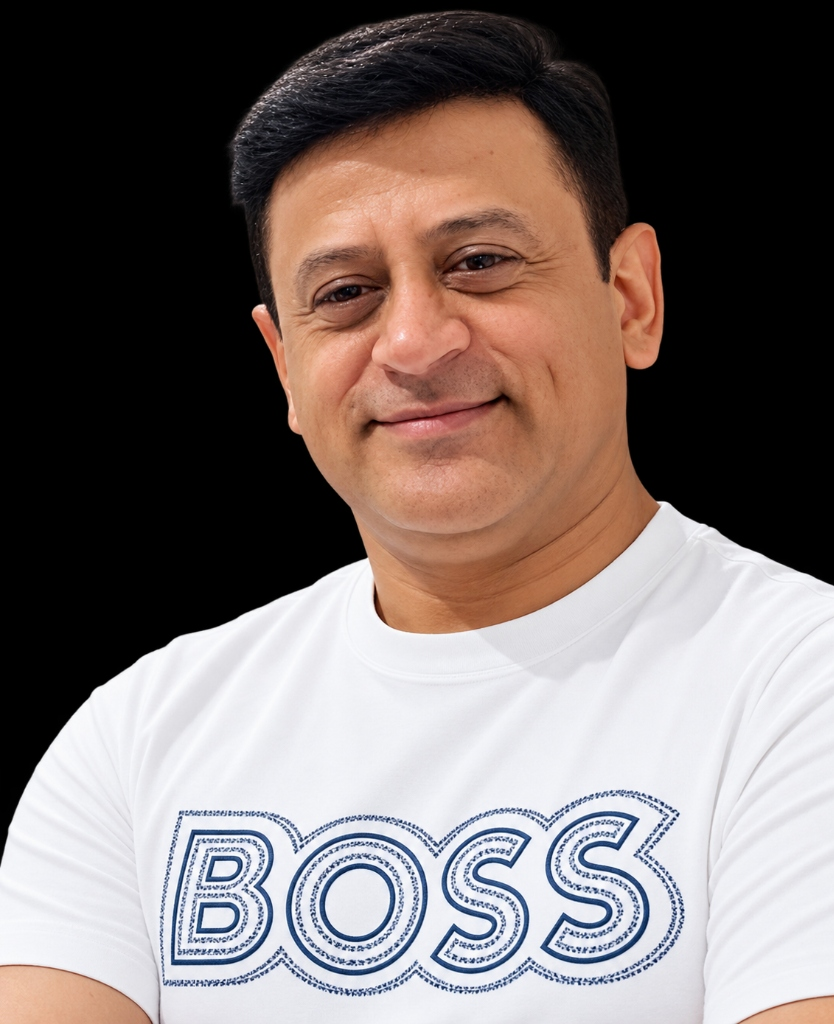
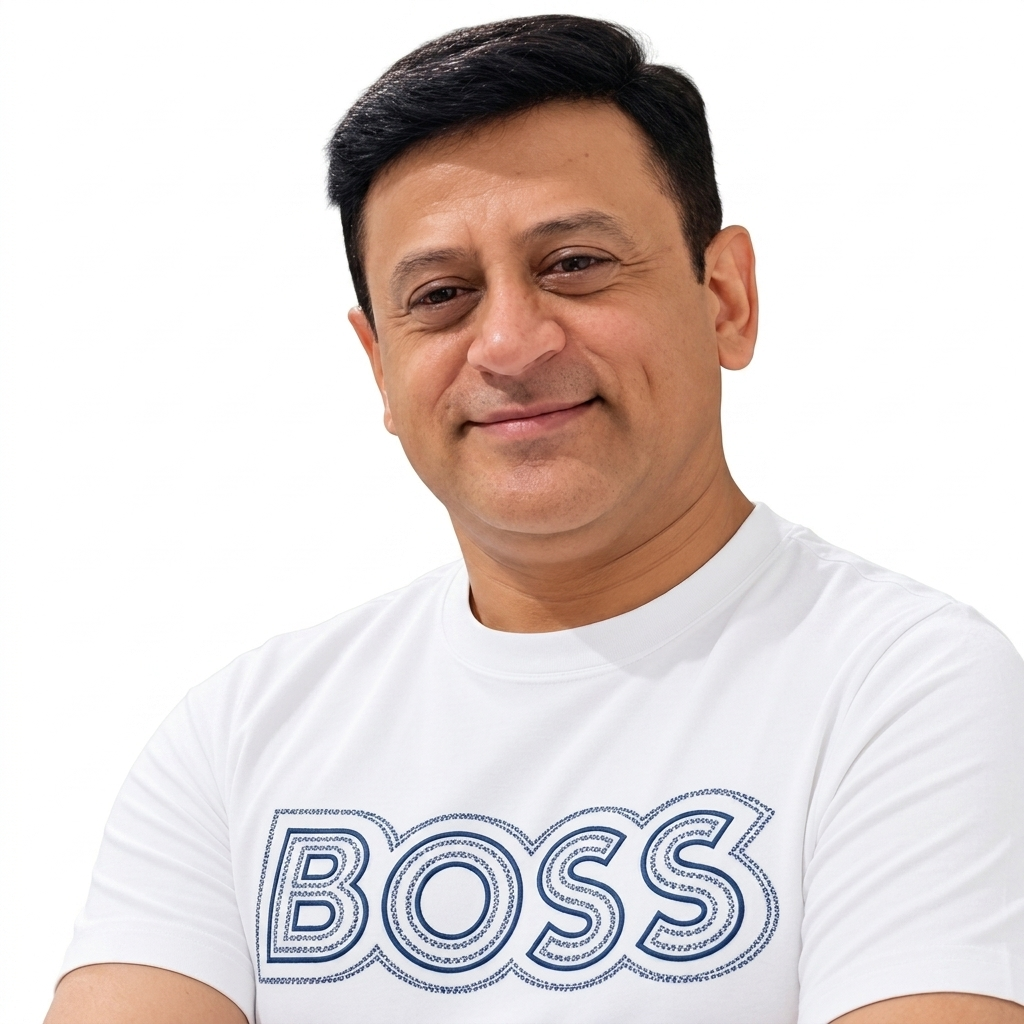
update-jatin-photo-to-pure-white-bg-and-light-card-container

diff --git a/src/app/team/page.tsx b/src/app/team/page.tsx
@@ -153,22 +153,22 @@ export default function TeamPage() {
                     className="bg-[#F8FAFC] rounded-3xl border border-slate-200 luxury-card-shadow hover:border-[#C5A059] transition-all duration-300 overflow-hidden flex flex-col justify-between group"
                   >
                     <div>
-                      {/* Executive Photo Container Placeholder */}
-                      <div className="relative w-full h-72 sm:h-80 bg-gradient-to-b from-[#0B1B2D] via-[#162B44] to-[#0B1B2D] flex items-center justify-center p-6 border-b border-[#C5A059]/30 overflow-hidden">
-                        {/* Background Ambient Glow */}
-                        <div className="absolute inset-0 bg-[radial-gradient(circle_at_center,rgba(197,160,89,0.15),transparent_70%)]" />
+                      {/* Executive Photo Container */}
+                      <div className="relative w-full h-72 sm:h-80 bg-gradient-to-b from-slate-50 via-white to-slate-100 flex items-center justify-center p-6 border-b border-slate-200 overflow-hidden">
+                        {/* Background Ambient Gold Glow */}
+                        <div className="absolute inset-0 bg-[radial-gradient(circle_at_center,rgba(197,160,89,0.12),transparent_70%)]" />
                         
                         {/* Executive Portrait Frame / Photo Container */}
-                        <div className="relative w-44 h-44 sm:w-48 sm:h-48 rounded-full p-1.5 bg-gradient-to-tr from-[#C5A059] via-[#F9E29C] to-[#C5A059] shadow-2xl group-hover:scale-105 transition-transform duration-300">
-                          <div className="w-full h-full rounded-full bg-[#0B1B2D] border-2 border-[#0B1B2D] shadow-inner overflow-hidden relative flex flex-col items-center justify-center">
+                        <div className="relative w-44 h-44 sm:w-48 sm:h-48 rounded-full p-1.5 bg-gradient-to-tr from-[#C5A059] via-[#F9E29C] to-[#C5A059] shadow-xl group-hover:scale-105 transition-transform duration-300">
+                          <div className="w-full h-full rounded-full bg-white border-2 border-white shadow-inner overflow-hidden relative flex flex-col items-center justify-center">
                             {member.image ? (
                               <img
                                 src={member.image}
                                 alt={member.name}
-                                className="w-full h-full object-cover object-top rounded-full"
+                                className="w-full h-full object-cover object-top rounded-full bg-white"
                               />
                             ) : (
-                              <span className="text-3xl sm:text-4xl font-serif font-bold text-white tracking-widest gold-gradient-text">
+                              <span className="text-3xl sm:text-4xl font-serif font-bold text-[#0B1B2D] tracking-widest gold-gradient-text">
                                 {member.initials}
                               </span>
                             )}
@@ -177,7 +177,7 @@ export default function TeamPage() {
 
                         {/* Executive Badge */}
                         <div className="absolute bottom-4 left-6 right-6 text-center">
-                          <span className="text-[10px] font-mono font-bold text-[#C5A059] uppercase tracking-widest bg-[#0B1B2D]/90 border border-[#C5A059]/40 px-3 py-1 rounded-full shadow-md backdrop-blur-md">
+                          <span className="text-[10px] font-mono font-bold text-[#0B1B2D] uppercase tracking-widest bg-white/95 border border-[#C5A059]/40 px-3 py-1 rounded-full shadow-md backdrop-blur-md">
                             DMCXchange Co-Founder
                           </span>
                         </div>
